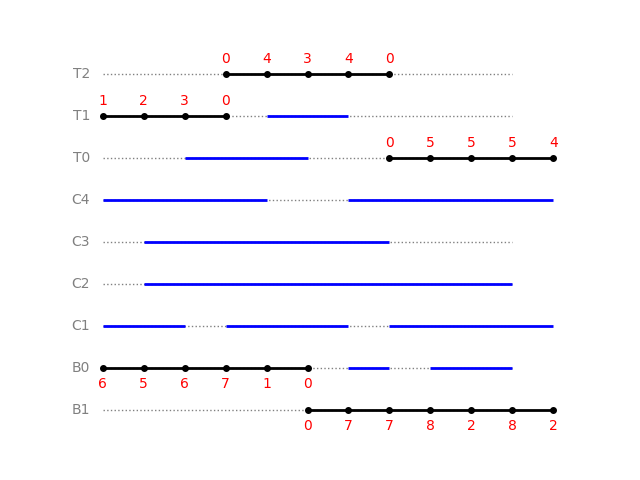
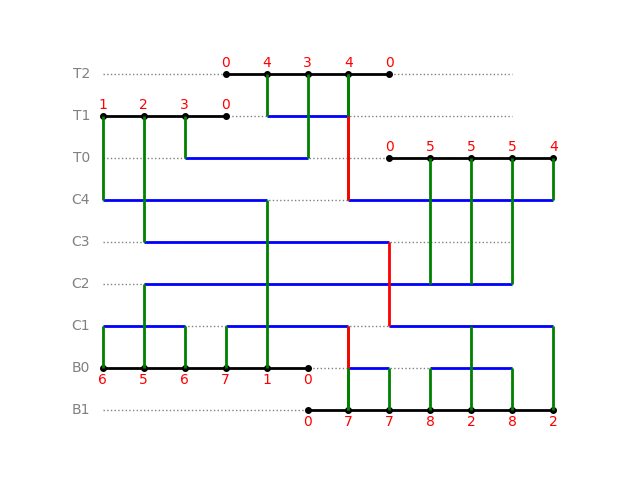
plot

diff --git a/routing.py b/routing.py
@@ -20,6 +20,21 @@ global_data = {
     'bottomboundaryID': [],
 }
 
+net_data = {}
+y_values_lookup = {}
+
+def calculate_dynamic_offset(x, net, y):
+    i = 0
+    for boundary in global_data['boundary_list']:
+        if x in range(boundary.s, boundary.e + 1) and net == global_data['topboundaryID'][x] and boundary.n[0] == 'T':
+            i = y_values_lookup[boundary.n] - y 
+            break
+        elif x in range(boundary.s, boundary.e + 1) and net == global_data['bottomboundaryID'][x] and boundary.n[0] == 'B':
+            i = y - y_values_lookup[boundary.n]
+            break
+
+    return i
+
 def parse_BoundaryList(f):
     lines = f.readlines() 
     num_lines = len(lines)
@@ -36,6 +51,7 @@ def parse_BoundaryList(f):
 
 
 def parse_NetList(f):
+    current_net = None
     for line in f:
         if 'Channel' in line:
             parts = line.split()
@@ -44,32 +60,64 @@ def parse_NetList(f):
                 track_label = f'C{i - 1}'
                 start, end = 0, 0
                 global_data['boundary_list'].append(Track(track_label, start, end))
-        elif line[0] == 'C' or line[0] == 'T' or line[0] == 'B':
+        elif 'Net' in line:
             parts = line.split()
-            global_data['net_list'].append(Track(parts[0], int(parts[1]), int(parts[2])))
+            current_net = parts[1]
+            net_data[current_net] = { 'doglegs': [], 'tracks': [] }
+        elif current_net:
+            if 'Dogleg' in line:
+                parts = line.split()
+                net_data[current_net]['doglegs'].append(Dogleg(int(parts[1])))
+            elif line[0] == 'C' or line[0] == 'T' or line[0] == 'B':
+                parts = line.split()
+                global_data['net_list'].append(Track(parts[0], int(parts[1]), int(parts[2])))
+                net_data[current_net]['tracks'].append(Track(parts[0], int(parts[1]), int(parts[2])))
 
 
 def plot():
-    y_values_lookup = {}
     for i, track in enumerate(global_data['boundary_list']):
-        plt.text(x=-0.3, y=0.5*i, s=track.n , va='center', ha='right', color='gray')
-        plt.hlines(y=0.5*i, xmin=0, xmax=10, colors='gray', linestyles=':', lw=1)
-        y_values_lookup[track.n] = 0.5*i
+        plt.text(x=-0.3, y=i, s=track.n , va='center', ha='right', color='gray')
+        plt.hlines(y=i, xmin=0, xmax=10, colors='gray', linestyles=':', lw=1)
+        y_values_lookup[track.n] = i
             
         if track.n[0] == 'T' or track.n[0] == 'B':
             boundaryIDs = global_data['topboundaryID'] if track.n[0] == 'T' else global_data['bottomboundaryID']
             text_va = 'bottom' if track.n[0] == 'T' else 'top'
-            text_offset = 0.1 if track.n[0] == 'T' else -0.1
-            plt.hlines(y=0.5*i, xmin=track.s, xmax=track.e, colors='black', lw=2)
+            text_offset = 0.1 if track.n[0] == 'T' else - 0.1
+            plt.hlines(y=i, xmin=track.s, xmax=track.e, colors='black', lw=2)
             for x in range(track.s, track.e + 1): 
-                plt.plot(x, 0.5*i, marker='o', color='black', markersize=4)
-                plt.text(x, 0.5*i + text_offset, str(boundaryIDs[x]), color='red', ha='center', va=text_va)
+                plt.plot(x, i, marker='o', color='black', markersize=4)
+                plt.text(x, i + text_offset, str(boundaryIDs[x]), color='red', ha='center', va=text_va)
     
     for i, track in enumerate(global_data['net_list']):
         if hasattr(track, 'n') and (track.n[0] == 'C'):
             plt.hlines(y=y_values_lookup[track.n], xmin=track.s, xmax=track.e, colors='blue', lw=2)
         if hasattr(track, 'n') and (track.n[0] == 'T' or track.n[0] == 'B'):
             plt.hlines(y=y_values_lookup[track.n], xmin=track.s, xmax=track.e, colors='blue', lw=2)
+
+    for net in net_data:
+        for track in net_data[net]['tracks']:
+            if hasattr(track, 'n') and track.n[0] in ('T', 'B', 'C'):
+                for x in range(track.s, track.e + 1):
+                    if net == global_data['bottomboundaryID'][x]:
+                        dynamic_offset = calculate_dynamic_offset(x, net, y_values_lookup[track.n])
+                        ymax = y_values_lookup[track.n]
+                        ymin = y_values_lookup[track.n] - dynamic_offset
+                        plt.vlines(x=x, ymin=ymin, ymax=ymax, colors='green', lw=2)
+                    elif net == global_data['topboundaryID'][x]:
+                        dynamic_offset = calculate_dynamic_offset(x, net, y_values_lookup[track.n])
+                        ymax = y_values_lookup[track.n] + dynamic_offset
+                        ymin = y_values_lookup[track.n]
+                        plt.vlines(x=x, ymin=ymin, ymax=ymax, colors='green', lw=2)
+  
+        for dogleg in net_data[net]['doglegs']:
+            for track in net_data[net]['tracks']:
+                if hasattr(track, 'n') and track.n[0] in ('T', 'B', 'C'):
+                    if track.e == dogleg.p:
+                        ymax = y_values_lookup[track.n]
+                    elif track.s == dogleg.p:
+                        ymin = y_values_lookup[track.n]
+            plt.vlines(x=dogleg.p, ymin=ymin, ymax=ymax, colors='red', lw=2)
 
     # Remove the axes
     plt.gca().spines['top'].set_visible(False)
